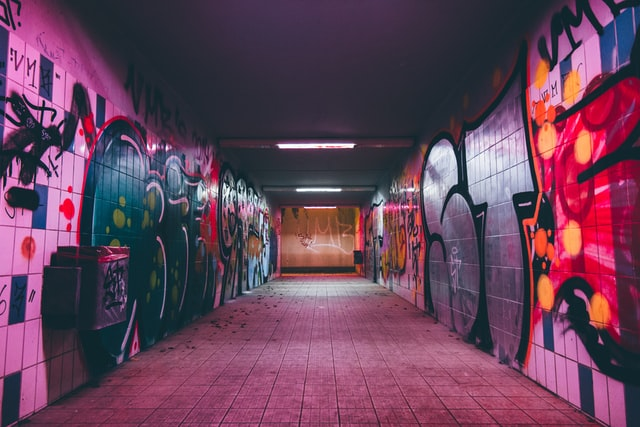
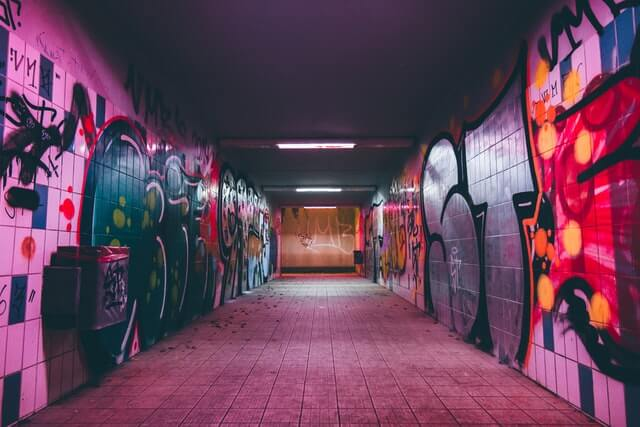
fix player min styles + optimize images

diff --git a/src/component/player.js b/src/component/player.js
@@ -56,9 +56,9 @@ function StreamInfo() {
   );
 }
 
-const MiniPlayer = memo(({ togglePlay, playIcon }) => {
+const MiniPlayer = memo(({ hidden, togglePlay, playIcon }) => {
   return (
-    <div className="player player--mini">
+    <div className="player player--mini" aria-hidden={hidden}>
       <StreamInfo />
       <div className="player__actions">
         <Button
@@ -173,6 +173,7 @@ export default function Player() {
 
   const playbackState = useHookState(globalPlaybackState);
   const playback = playbackState.playback.attach(Downgraded).value;
+  const hidden =  currentTrack && currentTrack.id ? false : true
 
   const showMiniPlayer = useMediaQuery({
     query: "(max-width: 900px)",
@@ -189,13 +190,13 @@ export default function Player() {
   let volumeIcon = muted ? VolumeX : Volume1;
 
   if (showMiniPlayer) {
-    return <MiniPlayer togglePlay={togglePlay} playIcon={playIcon} />;
+    return <MiniPlayer hidden={hidden} togglePlay={togglePlay} playIcon={playIcon} />;
   }
 
   return (
     <div
       className="player"
-      aria-hidden={currentTrack && currentTrack.id ? false : true}
+      aria-hidden={hidden}
     >
       <StreamInfo />
       <div className="player__main-controls">

diff --git a/src/css/sidebar.css b/src/css/sidebar.css
@@ -43,10 +43,10 @@
 
 .app--compact .sidebar {
   width: var(--sidebar-min-width);
-  padding-bottom: var(--player-min-height);
   align-items: center;
   align-content: center;
 }
+
 .app--compact .sidebar ul {
   margin: 0;
 }
@@ -81,8 +81,20 @@
 
 .app--mobile .sidebar {
   left: calc(-1 * var(--sidebar-width));
-  padding-bottom: var(--player-min-height);
   z-index: 3;
+}
+
+.app--min-player .sidebar {
+  padding-bottom: var(--player-min-height);
+}
+
+.app--min-player .sidebar::after {
+  bottom: calc(3vh + var(--player-min-height));
+}
+
+
+.app--mobile .sidebar::after {
+  display: none;
 }
 
 .sidebar ul {

diff --git a/src/App.js b/src/App.js
@@ -24,13 +24,18 @@ function App() {
     query: "(max-width: 720px)",
   });
 
+  const showMiniPlayer = useMediaQuery({
+    query: "(max-width: 900px)",
+  });
+
   return (
     <Router>
       <div
         className={clsx(
           "app",
           isSmallScreen && "app--compact",
-          isTabletOrMobile && "app--mobile"
+          isTabletOrMobile && "app--mobile",
+          showMiniPlayer && "app--min-player"
         )}
       >
         <Header />

diff --git a/src/css/player.css b/src/css/player.css
@@ -97,6 +97,10 @@
   min-width: auto;
 }
 
+.player-mini[aria-hidden="true"] {
+  transform: translate(0, var(--player-min-height));
+}
+
 .player--mini .stream-info {
   margin-left: 0;
 }

diff --git a/src/css/app.css b/src/css/app.css
@@ -38,6 +38,10 @@ main {
   margin-left: 0;
 }
 
+.app--min-player main {
+  margin-bottom: var(--player-min-height);
+}
+
 main h1 {
   font-size: 2.64em;
   margin: 0;

diff --git a/src/css/empty-state.css b/src/css/empty-state.css
@@ -39,3 +39,7 @@
   left: 0;
   margin: 24px;
 }
+
+.app--min-player .empty-state {
+  bottom: var(--player-min-height);
+}
